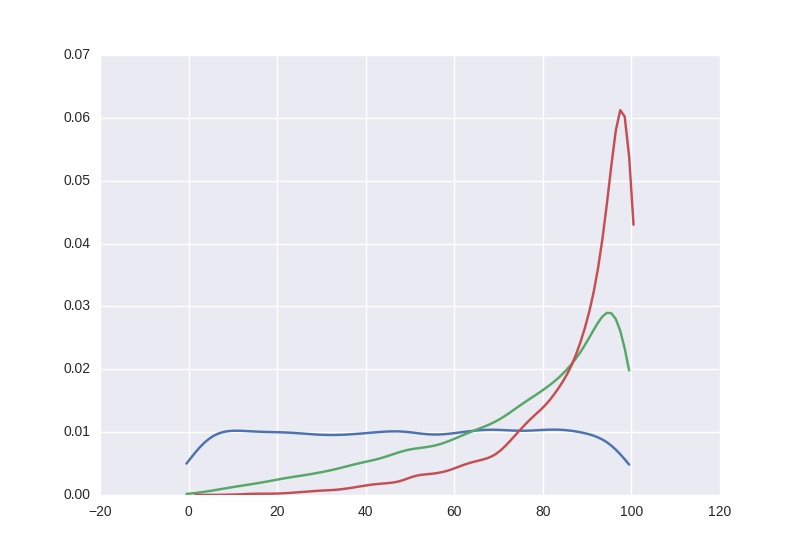
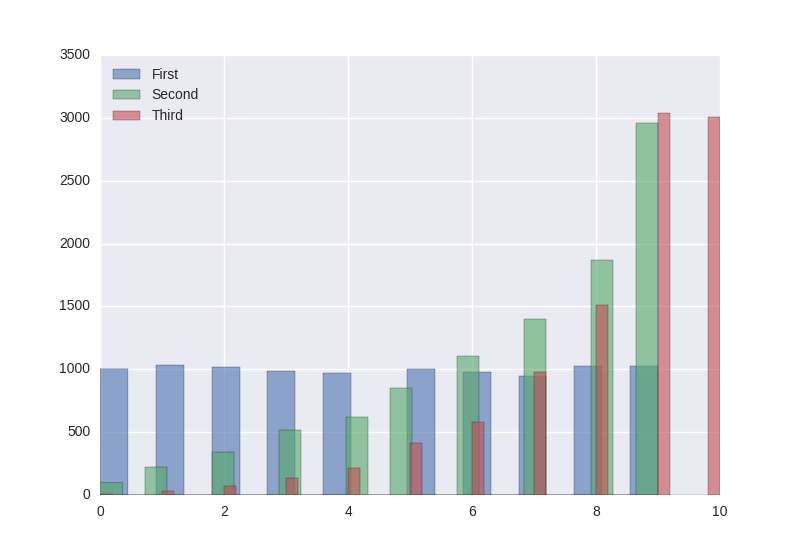
new figs

diff --git a/choice_prob.py b/choice_prob.py
@@ -1,20 +1,25 @@
 import random as rd
 import matplotlib.pyplot as plt
 import seaborn as sns; sns.set()
+from collections import defaultdict
 
 n = 10
 
-first, second, third = [], [], []
+picks = defaultdict(list)
 for i in range(10000):
         
-        first.append(rd.randrange(n))
-        second.append(rd.randrange(first[-1], n))
-        third.append(rd.randrange(second[-1], n+1))
+        picks['First'].append(rd.randrange(n))
+        picks['Second'].append(
+                rd.randrange(picks['First'][-1], n))
+        picks['Third'].append(
+                rd.randrange(picks['Second'][-1], n+1))
 
 
-sns.distplot(first, hist=False)
-sns.distplot(second, hist=False)
-sns.distplot(third, hist=False)
+order = ['First', 'Second', 'Third']
+for label in order:
+
+        sns.distplot(picks[label], kde=False, label=label, hist_kws={'alpha':0.6})
+
+plt.legend(loc='best')
 
 plt.show()
-

diff --git a/README.md b/README.md
@@ -3,4 +3,4 @@
 Convincing myself of some fairly obvious facts.
 
 ![Birthday paradox](https://github.com/neal-o-r/choice_prob/blob/master/birthdays.png)
-![Choosing Digits](https://github.com/neal-o-r/choice_prob/blob/master/choice_prob10.png)
+![Choosing Digits](https://github.com/neal-o-r/choice_prob/blob/master/choice_prob.png)
